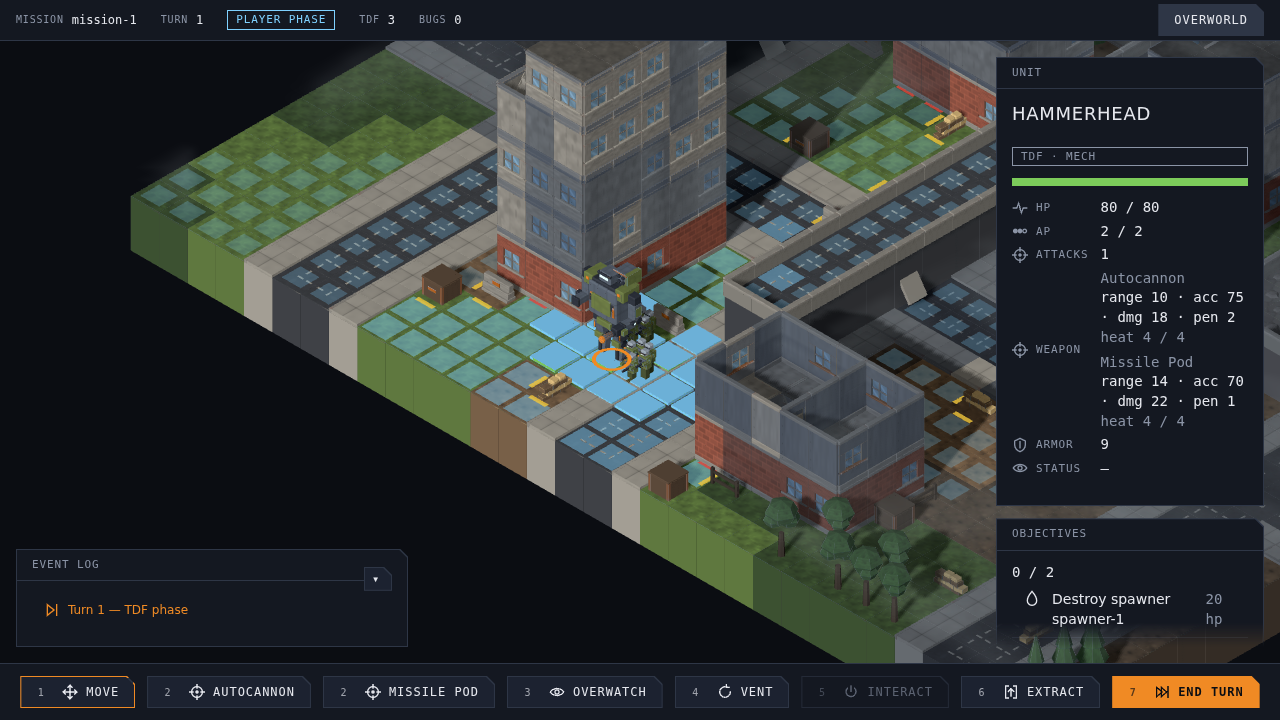
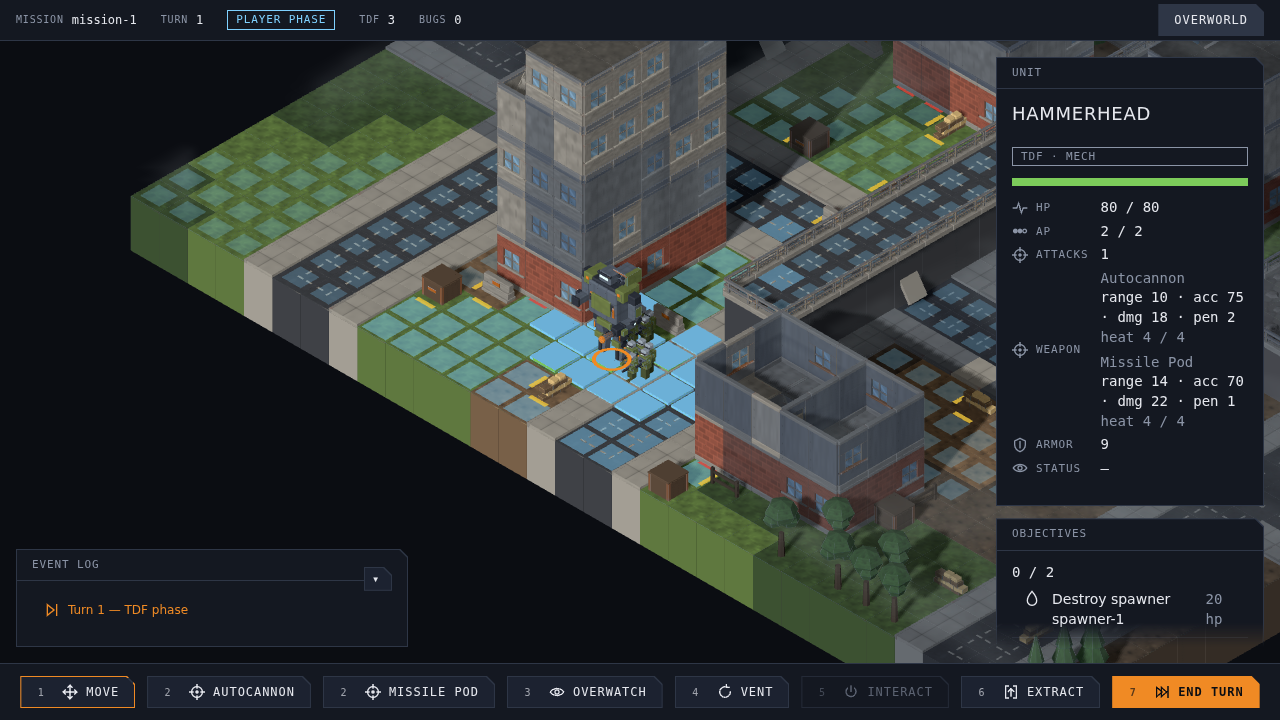
feat(art): give viaducts a dedicated kerb and rail (#782)

diff --git a/src/graphics/data/map-model-table.ts b/src/graphics/data/map-model-table.ts
@@ -91,8 +91,11 @@ export const PROP_MODELS: Readonly<Record<KnownPropKindId, ModelAssetId>> = {
  */
 export type WallFamily = "brick" | "concrete" | "panel";
 
+/** Civic edges have their own geometry; buildings never draw this family. */
+export type WallPlacementFamily = WallFamily | "road";
+
 /**
- * Every family, in a fixed order. `wallFamilyFor` indexes into this, so
+ * Building families, in a fixed order. `wallFamilyFor` indexes into this, so
  * the order is part of what a building's family depends on: reordering
  * it redraws every map. Append rather than insert.
  */
@@ -136,17 +139,17 @@ export const WALL_MODELS: Readonly<
 };
 
 /**
- * The half-height wall, one per family (#766). #510 modelled it in brick
- * only and it was brick whatever the family, so a parapet on an asphalt
- * viaduct wore brick with a concrete cap and read, at a glance, as a low
- * brick building the road sat on (#748). Concrete and panel buildings —
- * and everything civic that belongs to no building — now take the same
- * mesh in the concrete material, and read as a low grey lip.
+ * Building half walls keep their existing brick/concrete meshes (#766).
+ * The road family uses an open steel rail on a concrete kerb (#782),
+ * sharing the half wall's bounds and base pivot without its silhouette.
  */
-export const HALF_WALL_MODELS: Readonly<Record<WallFamily, ModelAssetId>> = {
+export const HALF_WALL_MODELS: Readonly<
+  Record<WallPlacementFamily, ModelAssetId>
+> = {
   brick: "building.wall-half",
   concrete: "building.wall-half-concrete",
   panel: "building.wall-half-concrete",
+  road: "building.viaduct-parapet",
 };
 
 /** The brick half wall, kept for the brick family's own parapets. */
@@ -172,10 +175,17 @@ export function propModel(kind: PropKindId): ModelAssetId | undefined {
 
 /**
  * The model for a wall kind in one family. Every kind mapgen can emit
- * has one; `half` follows the family too, see `HALF_WALL_MODELS`.
+ * has one; `half` follows the family too, see `HALF_WALL_MODELS`. Road
+ * edges use concrete for full-height kinds, though only half walls are
+ * assigned the road family by `wallFamilyForWall`.
  */
-export function wallModel(kind: WallKind, family: WallFamily): ModelAssetId {
-  return kind === "half" ? HALF_WALL_MODELS[family] : WALL_MODELS[family][kind];
+export function wallModel(
+  kind: WallKind,
+  family: WallPlacementFamily,
+): ModelAssetId {
+  return kind === "half"
+    ? HALF_WALL_MODELS[family]
+    : WALL_MODELS[family === "road" ? "concrete" : family][kind];
 }
 
 /**
@@ -200,20 +210,19 @@ export function wallFamilyFor(buildingId: string | undefined): WallFamily {
 }
 
 /**
- * The family one wall draws in (#766). A building's walls take the
+ * The family one wall draws in (#766, #782). A building's walls take the
  * building's family. A wall that belongs to no building is brick — except
  * a `half` wall, which with no building is civic: the parapet along a
- * viaduct or the lip of a raised park, and it draws concrete so a road
- * reads as a low grey lip on a grey pillar rather than as a brick building
- * it sits on (#748). Only the parapet changes, because a building's own
+ * viaduct or the lip of a raised park, and takes the road's kerb and rail.
+ * Only the parapet changes, because a building's own
  * ground-floor walls also stand on untagged tiles.
  */
 export function wallFamilyForWall(
   kind: WallKind,
   buildingId: string | undefined,
-): WallFamily {
+): WallPlacementFamily {
   if (buildingId === undefined && kind === "half") {
-    return "concrete";
+    return "road";
   }
   return wallFamilyFor(buildingId);
 }

diff --git a/src/graphics/data/map-model-table.test.ts b/src/graphics/data/map-model-table.test.ts
@@ -23,7 +23,7 @@ import {
 /** Every wall model the table names, across all three families. */
 const allWallModels = [
   ...WALL_FAMILIES.flatMap((family) => Object.values(WALL_MODELS[family])),
-  HALF_WALL_MODEL,
+  ...Object.values(HALF_WALL_MODELS),
 ];
 
 describe("map model table", () => {
@@ -61,9 +61,16 @@ describe("map model table", () => {
     }
   });
 
-  it("draws a half wall in brick whatever the family, the only one modelled", () => {
-    for (const family of WALL_FAMILIES) {
-      expect(wallModel("half", family)).toBe(HALF_WALL_MODELS[family]);
+  it("keeps every building family's half wall and the building hash order unchanged", () => {
+    expect(WALL_FAMILIES).toEqual(["brick", "concrete", "panel"]);
+    expect(wallModel("half", "brick")).toBe("building.wall-half");
+    expect(wallModel("half", "concrete")).toBe("building.wall-half-concrete");
+    expect(wallModel("half", "panel")).toBe("building.wall-half-concrete");
+    for (let index = 0; index < 60; index++) {
+      const id = `building-${String(index)}`;
+      for (const kind of ["solid", "window", "door", "half"] as const) {
+        expect(wallFamilyForWall(kind, id)).toBe(wallFamilyFor(id));
+      }
     }
   });
 
@@ -85,13 +92,13 @@ describe("map model table", () => {
     // Brick where a wall belongs to no building: a building's own
     // ground-floor walls stand on untagged tiles (#766).
     expect(wallFamilyFor(undefined)).toBe("brick");
-    // The one civic exception is the parapet, which with no building is
-    // concrete — a viaduct's lip drew brick and read as a brick building
-    // the road sat on (#748, #766).
-    expect(wallFamilyForWall("half", undefined)).toBe("concrete");
+    // Only the unowned half wall takes the new road geometry (#782).
+    expect(wallFamilyForWall("half", undefined)).toBe("road");
     expect(wallFamilyForWall("solid", undefined)).toBe("brick");
+    expect(wallFamilyForWall("window", undefined)).toBe("brick");
+    expect(wallFamilyForWall("door", undefined)).toBe("brick");
     expect(wallModel("half", wallFamilyForWall("half", undefined))).toBe(
-      "building.wall-half-concrete",
+      "building.viaduct-parapet",
     );
     expect(wallModel("half", "brick")).toBe(HALF_WALL_MODEL);
   });

diff --git a/e2e/viaduct-parapet-screenshot.spec.ts b/e2e/viaduct-parapet-screenshot.spec.ts
@@ -1,0 +1,33 @@
+import { expect, test } from "@playwright/test";
+
+/** Fixed no-fog control for the Director's viaduct review (#782). */
+test("captures the viaduct parapets without fog for review", async ({
+  page,
+}) => {
+  test.skip(process.env.CAPTURE === undefined, "set CAPTURE=1 to capture");
+  const errors: string[] = [];
+  page.on("pageerror", (error) => errors.push(error.message));
+  page.on("console", (message) => {
+    if (message.type() === "error") errors.push(message.text());
+  });
+  await page.setViewportSize({ width: 2400, height: 1500 });
+  await page.goto(
+    "/mapgen-preview.html?seed=730982385&biome=temperate&settlement=city&size=small&models=1",
+  );
+  await expect(page.locator("body")).toHaveAttribute("data-app-state", "ready");
+  await expect(page.locator("body")).toHaveAttribute(
+    "data-models-ready",
+    "true",
+  );
+  await expect(page.locator("body")).toHaveAttribute(
+    "data-map-seed",
+    "730982385",
+  );
+  await expect(page.locator("#status")).toBeEmpty();
+  await page.mouse.move(0, 0);
+  await page.waitForTimeout(400);
+  expect(errors).toEqual([]);
+  await page.screenshot({
+    path: "docs/design/shots/782-preview-models-seed730982385-parapets.png",
+  });
+});

diff --git a/src/graphics/service/map-model-resolver.test.ts b/src/graphics/service/map-model-resolver.test.ts
@@ -436,7 +436,7 @@ describe("resolveMapModels stairs tiles", () => {
 // ===========================================
 
 describe("resolveMapModels parapets", () => {
-  it("draws a raised road's parapet in concrete, not brick", () => {
+  it("draws a raised road's parapet with the dedicated kerb and rail", () => {
     // Raised road tiles carry `half` walls and no building id (#607).
     const b = field();
     b.tile({ x: 2, y: 1, z: 2 }, SurfaceIds.ROAD);
@@ -446,7 +446,7 @@ describe("resolveMapModels parapets", () => {
     const parapets = walls.filter((w) => w.tile.x === 2 && w.tile.y === 1);
     expect(parapets.length).toBe(2);
     for (const p of parapets) {
-      expect(p.modelId).toBe("building.wall-half-concrete");
+      expect(p.modelId).toBe("building.viaduct-parapet");
     }
   });
 

diff --git a/src/graphics/data/model-manifest.ts b/src/graphics/data/model-manifest.ts
@@ -601,6 +601,14 @@ export const MODEL_MANIFEST = {
     sockets: [],
     quality: "final",
   },
+  "building.viaduct-parapet": {
+    category: "buildings",
+    path: "assets/models/buildings/city-viaduct-parapet.glb",
+    footprint: { w: 1, d: 0 },
+    height: 0.5,
+    sockets: [],
+    quality: "final",
+  },
   "building.wall-panel": {
     category: "buildings",
     path: "assets/models/buildings/wall-panel.glb",

diff --git a/src/content/data/model-ids.ts b/src/content/data/model-ids.ts
@@ -88,6 +88,7 @@ export const MODEL_IDS = [
   "building.wall-door-panel",
   "building.wall-half",
   "building.wall-half-concrete",
+  "building.viaduct-parapet",
   "building.wall-panel",
   "building.wall-window",
   "building.wall-window-concrete",

diff --git a/tools/art/models/city-viaduct-parapet.py b/tools/art/models/city-viaduct-parapet.py
@@ -1,0 +1,21 @@
+"""City viaduct: a concrete kerb with an open, two-course steel guardrail.
+
+Drop-in half-wall contract: one unit along X, 0.18 maximum depth, 0.5
+high, base midpoint at the origin. Continuous rails reach both ends so
+neighbouring segments join; the low kerb leaves daylight above the deck.
+"""
+
+from bpy_kit import bevel, box
+
+FOOTPRINT = (1, 0)
+
+
+def build() -> None:
+    """Build the chamfered concrete foot and stout grey bridge rail."""
+    kerb = box("concrete-kerb", (1.0, 0.18, 0.16), (0, 0, 0.08), "env-concrete")
+    bevel(kerb, 0.015)
+    for x in (-0.35, 0.35):
+        box("rail-post", (0.06, 0.065, 0.33), (x, 0, 0.315), "env-metal")
+    box("middle-rail", (1.0, 0.07, 0.05), (0, 0, 0.30), "env-metal")
+    top = box("top-rail", (1.0, 0.09, 0.06), (0, 0, 0.47), "env-metal")
+    bevel(top, 0.008)

diff --git a/docs/handoff/art-director.md b/docs/handoff/art-director.md
@@ -1,8 +1,57 @@
 # Handoff: Art Director
 
-Last updated: 2026-09-05 (#776 Director review revision)
+Last updated: 2026-09-05 (#782 viaduct parapet)
 
-## Current work: #770, then hold
+## Current work: #782, then hold
+
+The Director authorised **#782** as another exception to the production pause.
+Branch: `feat/782-viaduct-parapet`, based on main `6d92d1c`. I remain the
+Codex Art Director on gpt-6-astra. #776 is merged; its mist strength and
+renderer are unchanged by this task.
+
+Built `building.viaduct-parapet` through the Blender loop: a low concrete
+kerb with two open grey steel rails. Source: `tools/art/models/city-viaduct-parapet.py`.
+Export: `public/assets/models/buildings/city-viaduct-parapet.glb`, 124 triangles,
+13,380 bytes; all meshes validate watertight. Bounds match the old half wall
+within floating-point precision: 1 u long, 0.18 u deep, 0.5 u high, base at
+zero, centred on X/Z. Footprint remains `1 × 0`. Opened and inspected all
+three committed `building.viaduct-parapet_{045,135,225}.png` renders.
+
+The model table now gives unowned half walls the `road` placement family.
+It is separate from the three hashed building families. Building models,
+family hash order, and placement matrices stay unchanged. This preserves
+the existing civic selection, including raised-park/rubble-platform edges;
+no map generation change. The `building.*` asset prefix preserves the
+existing cutaway treatment.
+
+Regenerated and inspected all requested frames:
+
+- [No-fog seed 730982385](../design/shots/782-preview-models-seed730982385-parapets.png),
+  temperate/city/small, all levels, 2400 × 1500, `models=1`.
+- [Fog seed 4242, turn 1](../design/tactical-fog-of-war.png).
+- [Fog seed 4242, turn 7](../design/tactical-fog-of-war-turn7.png).
+
+The kerb and open rails read as bridge edges in the actual scene. A fresh
+before/after no-fog capture changed 51,302 map pixels (excluding panel timing
+text), around civic parapets and their shadows. Building wall art stays
+intact. The Director judges the frames; this is ready for review, not a
+claim of visual acceptance.
+
+Reproduce both controls with `CAPTURE=1 pnpm exec playwright test
+e2e/viaduct-parapet-screenshot.spec.ts e2e/fog-screenshot.spec.ts` (2 passed).
+The added preview capture waits for real models and rejects browser errors.
+`pnpm typecheck`, `pnpm lint`, `pnpm test` (1,939 passed, one skipped), and
+`pnpm build` pass. Tests cover
+road routing, unchanged building families, and asset-manifest registration.
+Build retains its existing chunk-size warning. Model recipe and dimensions
+are documented in `docs/design/kits/city-building-kit.md`.
+
+Next: Tech Lead reviews this branch; address arriving review here. Then
+**hold again, with no timer polling or background review monitor**. All
+other production remains paused. Earlier task/queue instructions below are
+historical and do not authorise taking another issue.
+
+## Previous work: #770 / #776 (merged)
 
 The Director authorised **#770 only** during the production pause. Branch:
 `feat/770-unexplored-scene-fog`. Designed and implemented thin, stationary

diff --git a/docs/design/kits/city-building-kit.md b/docs/design/kits/city-building-kit.md
@@ -33,9 +33,38 @@ The band is lighter than the body on brick and darker than it on concrete. What 
 
 **How a building picks one** (for whoever wires it — `map-model-resolver`, #474): tiles carry `buildingId`, so hash it and take that family for every wall of that building. One family per building, never per wall; a building that changes material halfway up reads as a bug. Walls with no `buildingId` — free-standing garden walls, compound walls — stay brick.
 
-Only the three full-height pieces have families. `building.wall-half`, the floor, roof, parapet and stairs are shared: a low garden wall, a concrete floor slab and a gravel roof look the same whatever the building above them is made of, and tripling them would triple the id count for nothing.
+Building half walls use `building.wall-half` for brick and `building.wall-half-concrete` for concrete and panel (#766). The floor, roof, roof parapet and stairs remain shared.
 
 The threshold plate on every door stays `env-metal` in all three families — a door gets walked on, and a worn steel plate is what that looks like whatever the wall is made of.
+
+## Viaduct parapet (#782)
+
+![Concrete kerb and steel rail](../renders/building.viaduct-parapet_045.png)
+
+`building.viaduct-parapet` is a dedicated bridge edge: a 0.16 u concrete kerb
+supporting two grey steel rails, with daylight between them. It replaces the
+solid half-wall silhouette for civic edges only. The road family's half-wall
+entry selects it for walls with no `buildingId`; this includes the existing
+viaduct and raised-park lips. Buildings retain their three material families,
+their fixed hash order, and all existing wall meshes.
+
+The bounds match the half wall: 1 u along X, 0.18 u maximum depth, 0.5 u high;
+footprint `1 × 0`, base midpoint at the origin. Rails reach both ends of the
+module to join runs. No placement or rotation change. The model is 124
+triangles / 13,380 bytes, with the existing `env-concrete` and `env-metal`
+atlas cells, and all meshes pass watertight validation.
+
+```bash
+blender -b --python-exit-code 1 --python tools/art/make_model.py -- \
+  --script tools/art/models/city-viaduct-parapet.py --id building.viaduct-parapet \
+  --category buildings --file city-viaduct-parapet.glb --quality final --max-triangles 800
+CAPTURE=1 pnpm exec playwright test e2e/viaduct-parapet-screenshot.spec.ts e2e/fog-screenshot.spec.ts
+```
+
+The no-fog control is [seed 730982385](../shots/782-preview-models-seed730982385-parapets.png),
+temperate / city / small, all levels, `models=1`, 2400 × 1500. Tactical fog
+controls remain seed 4242, turns 1 and 7. All three model angles are under
+`docs/design/renders/building.viaduct-parapet_{045,135,225}.png`.
 
 ## Rules the kit follows
 
